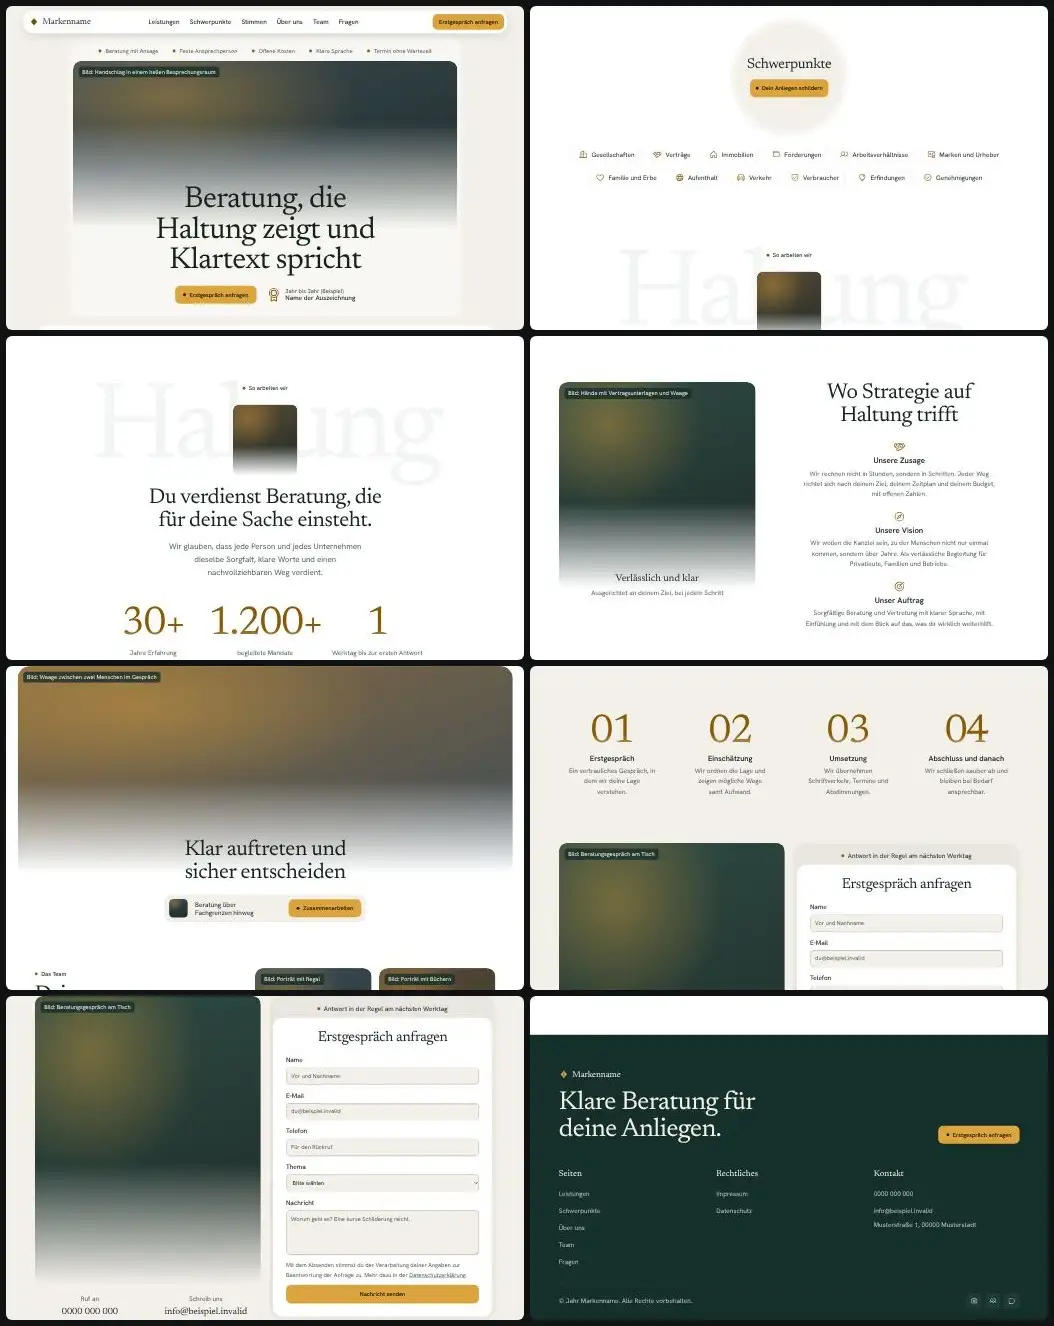
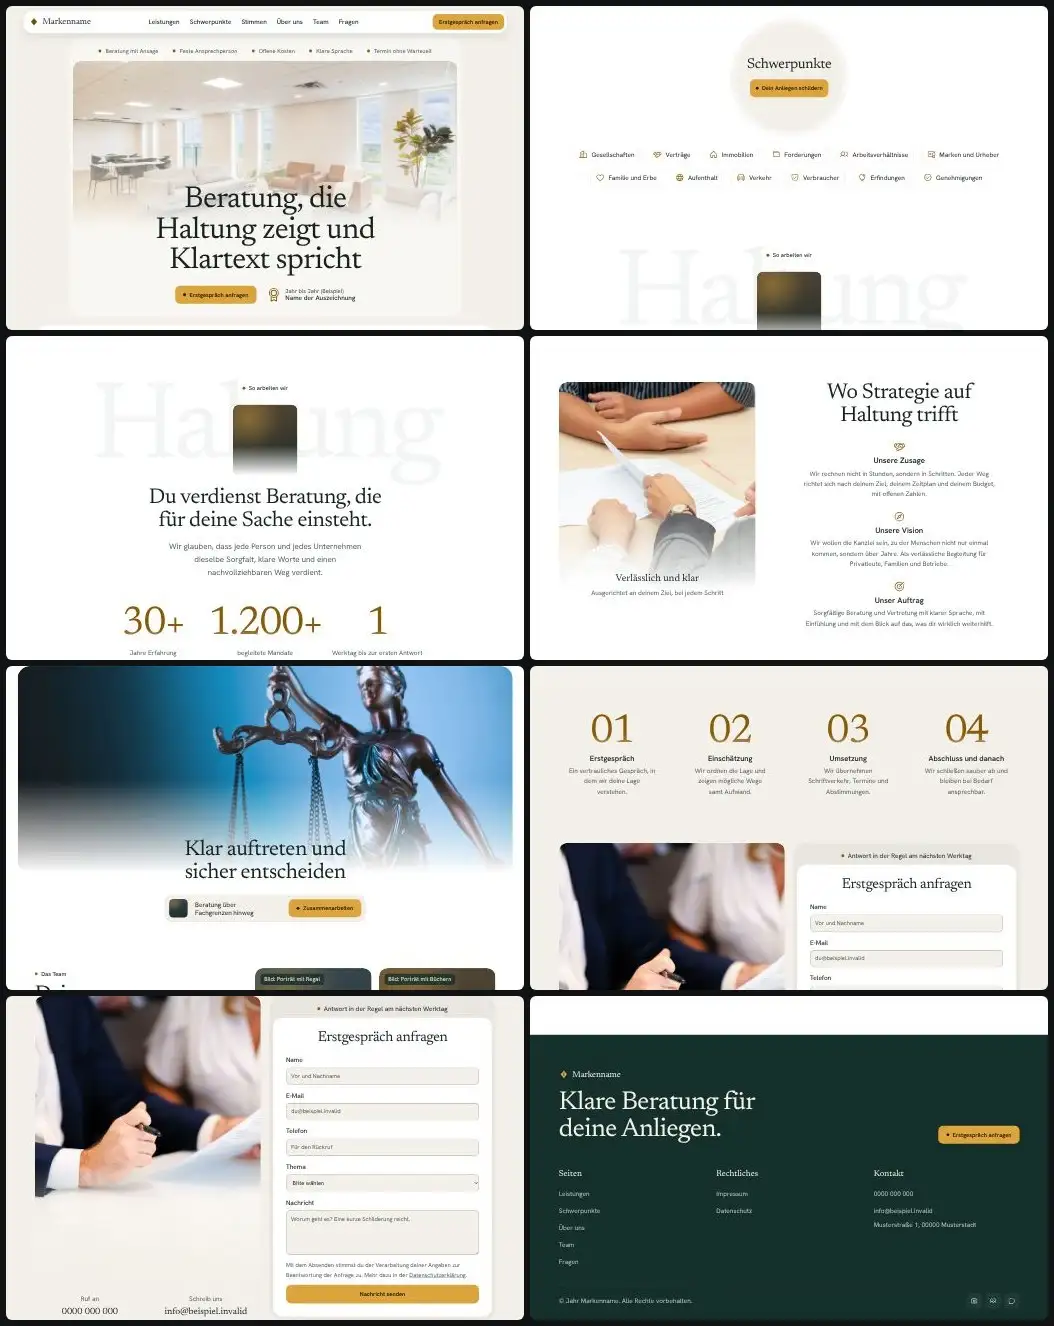
Bibliothek t65: Beispielfotos (Unsplash) eingebaut, Vorschaubilder neu erzeugt
Claude-Session: https://claude.ai/code/session_01DoGuL1bwF3ewggMgZ4Cpvd

diff --git a/skills/webdesign-conversion/assets/vorlagen/bibliothek/t65/index.html b/skills/webdesign-conversion/assets/vorlagen/bibliothek/t65/index.html
@@ -78,7 +78,7 @@
           <div class="band__spur"><span class="lauf__eintrag"><span class="punkt" aria-hidden="true"></span>Beratung mit Ansage</span><span class="lauf__eintrag"><span class="punkt" aria-hidden="true"></span>Feste Ansprechperson</span><span class="lauf__eintrag"><span class="punkt" aria-hidden="true"></span>Offene Kosten</span><span class="lauf__eintrag"><span class="punkt" aria-hidden="true"></span>Klare Sprache</span><span class="lauf__eintrag"><span class="punkt" aria-hidden="true"></span>Termin ohne Wartezeit</span></div>
           <div class="band__spur" aria-hidden="true"><span class="lauf__eintrag"><span class="punkt" aria-hidden="true"></span>Beratung mit Ansage</span><span class="lauf__eintrag"><span class="punkt" aria-hidden="true"></span>Feste Ansprechperson</span><span class="lauf__eintrag"><span class="punkt" aria-hidden="true"></span>Offene Kosten</span><span class="lauf__eintrag"><span class="punkt" aria-hidden="true"></span>Klare Sprache</span><span class="lauf__eintrag"><span class="punkt" aria-hidden="true"></span>Termin ohne Wartezeit</span></div>
         </div>
-        <div class="held__bild bild bild--a" data-platzhalter="Bild: Handschlag in einem hellen Besprechungsraum" role="img" aria-label="Platzhalter für das Titelbild"></div>
+        <div class="held__bild bild bild--a"><img src="bilder/beratung-lounge-hell.webp" width="1600" height="1067" alt="Heller Loungebereich mit Sofas und Pflanzen" loading="lazy" decoding="async"></div>
         <div class="held__text">
           <h1 id="h-held" data-zeig>Beratung, die Haltung zeigt und Klartext spricht</h1>
           <div class="held__zeile" data-zeig>
@@ -96,12 +96,12 @@
       <h2 class="sr-nur" id="h-leistungen">Leistungen</h2>
       <ul class="leistungen__raster" data-staffel>
         <li class="leistung" data-zeig>
-          <div class="leistung__bild bild bild--b" data-platzhalter="Bild: Frau am Schreibtisch vor Regalen" aria-hidden="true"></div>
+          <div class="leistung__bild bild bild--b"><img src="bilder/beratung-frau-schreibtisch-regal.webp" width="900" height="506" alt="Eine Frau telefoniert am Schreibtisch vor einem Regal" loading="lazy" decoding="async"></div>
           <h3><a href="#kontakt">Unternehmen und Verträge</a></h3>
           <p>Begleitung bei Gründung, Verträgen und laufenden Pflichten im Betrieb.</p>
         </li>
         <li class="leistung" data-zeig>
-          <div class="leistung__bild bild bild--c" data-platzhalter="Bild: Waage in der Hand eines Mannes im Anzug" aria-hidden="true"></div>
+          <div class="leistung__bild bild bild--c"><img src="bilder/beratung-justitia.webp" width="900" height="600" alt="Statue der Justitia mit Waage" loading="lazy" decoding="async"></div>
           <h3><a href="#kontakt">Konflikte und Verfahren</a></h3>
           <p>Vertretung bei Streit, in Verhandlungen und vor Gericht, mit klarer Linie.</p>
         </li>
@@ -185,7 +185,7 @@
   <section class="ueber" id="ueber" aria-labelledby="h-ueber" data-ueber>
     <div class="wrap ueber__raster">
       <figure class="ueber__bild">
-        <div class="bild bild--c" data-platzhalter="Bild: Hände mit Vertragsunterlagen und Waage" role="img" aria-label="Platzhalter für ein Bild"></div>
+        <div class="bild bild--c"><img src="bilder/beratung-dokumente-tisch.webp" width="1000" height="667" alt="Hände prüfen Dokumente am Besprechungstisch" loading="lazy" decoding="async"></div>
         <figcaption><strong class="ueber__titel">Verlässlich und klar</strong><span>Ausgerichtet an deinem Ziel, bei jedem Schritt</span></figcaption>
       </figure>
       <div class="ueber__inhalt">
@@ -215,7 +215,7 @@
   <!-- 7. Aufruf: breites Bild mit Auslauf, Überschrift, kleine Leiste mit Knopf -->
   <section class="aufruf" aria-labelledby="h-aufruf">
     <div class="aufruf__rahmen">
-      <div class="aufruf__bild bild bild--d" data-platzhalter="Bild: Waage zwischen zwei Menschen im Gespräch" data-parallax="0.06" role="img" aria-label="Platzhalter für ein breites Bild"></div>
+      <div class="aufruf__bild bild bild--d" data-parallax="0.06"><img src="bilder/beratung-justitia-blau.webp" width="1000" height="667" alt="Justitia Statue mit Waage vor blauem Hintergrund" loading="lazy" decoding="async"></div>
     </div>
     <div class="wrap aufruf__text">
       <h2 id="h-aufruf" data-zeig>Klar auftreten und sicher entscheiden</h2>
@@ -273,7 +273,7 @@
   <section class="sektion kontakt" id="kontakt" aria-labelledby="h-kontakt">
     <div class="wrap kontakt__raster">
       <div class="kontakt__links" data-zeig>
-        <div class="kontakt__bild bild bild--c" data-platzhalter="Bild: Beratungsgespräch am Tisch" role="img" aria-label="Platzhalter für ein Bild"></div>
+        <div class="kontakt__bild bild bild--c"><img src="bilder/beratung-tisch-unterlagen.webp" width="1000" height="667" alt="Zwei Personen mit Unterlagen an einem weißen Tisch" loading="lazy" decoding="async"></div>
         <address class="kontakt__daten" data-beispiel>
           <p><span>Ruf an</span><a href="tel:+490000000000">0000 000 000</a></p>
           <p><span>Schreib uns</span><a href="mailto:info@beispiel.invalid">info@beispiel.invalid</a></p>

diff --git a/skills/webdesign-conversion/assets/vorlagen/bibliothek/t65/BILDER.md b/skills/webdesign-conversion/assets/vorlagen/bibliothek/t65/BILDER.md
@@ -1,0 +1,24 @@
+# Bilder t65
+
+Alle Fotos von Unsplash, abgerufen am 25.11.2026. Titel und Lizenz stehen so auf der Seite des Fotos (Titel von Unsplash automatisch vergeben), als Fotograf ist das Unsplash Profil angegeben, weil die Seite den Namen nur als Profillink zeigte. Lizenz ist jeweils die Unsplash Lizenz.
+
+| Datei | Platz | Foto Titel | Fotograf (Profil) | Seite | Lizenz | Abruf |
+|---|---|---|---|---|---|---|
+| beratung-lounge-hell.webp.webp | Held | Moderner Büro-Loungebereich mit Sitzgelegenheiten und Tischen | @akasm | https://unsplash.com/photos/wBWyo8klSuc | Unsplash Lizenz | 25.11.2026 |
+| beratung-frau-schreibtisch-regal.webp.webp | Leistung 1 | Frau am Telefon am Schreibtisch mit Laptop und Büchern | @silverkblack | https://unsplash.com/photos/3IdYKyLEjXo | Unsplash Lizenz | 25.11.2026 |
+| beratung-justitia.webp.webp | Leistung 2 | Statue der Lady Justice mit Schuppen und Schwert | @tingeyinjurylawfirm | https://unsplash.com/photos/yCdPU73kGSc | Unsplash Lizenz | 25.11.2026 |
+| beratung-dokumente-tisch.webp.webp | Block Dokumente | Zwei Personen prüfen Dokumente am Sitzungstisch | @vantaymedia | https://unsplash.com/photos/TFFn3BYLc5s | Unsplash Lizenz | 25.11.2026 |
+| beratung-justitia-blau.webp.webp | Aufruf | Statue der Gerechtigkeit hält Schuppen vor blauem Hintergrund | @sasun1990 | https://unsplash.com/photos/zbQ5UaREHx4 | Unsplash Lizenz | 25.11.2026 |
+| beratung-tisch-unterlagen.webp.webp | Kontakt | Ein Mann und eine Frau sitzen an einem weißen Tisch | @carrieallenllc | https://unsplash.com/photos/1H1LBKvD7ew | Unsplash Lizenz | 25.11.2026 |
+
+## Hinweise
+
+* Stockpersonen nur als Atmosphäre, keine echten Anwälte oder Mandanten. Vor Abgabe durch eigene Fotos ersetzen.
+* Keine Erfolgsversprechen im Bildtext.
+* Held: Es gab kein Handschlagfoto mit freier Lizenz im passenden Format, der helle Raum steht stellvertretend. Der Held hat eine Maske nach unten, der Text bleibt lesbar.
+* Statt einer Waage in der Hand eines Mannes steht eine Justitia Statue.
+
+## Offen
+
+* Leistung 3 (Hände mit Schiene beim Arztbesuch), bewusst ohne Foto, Verletzungsmotive vermieden
+* Porträt Kanzleileitung und zwei Personenporträts
